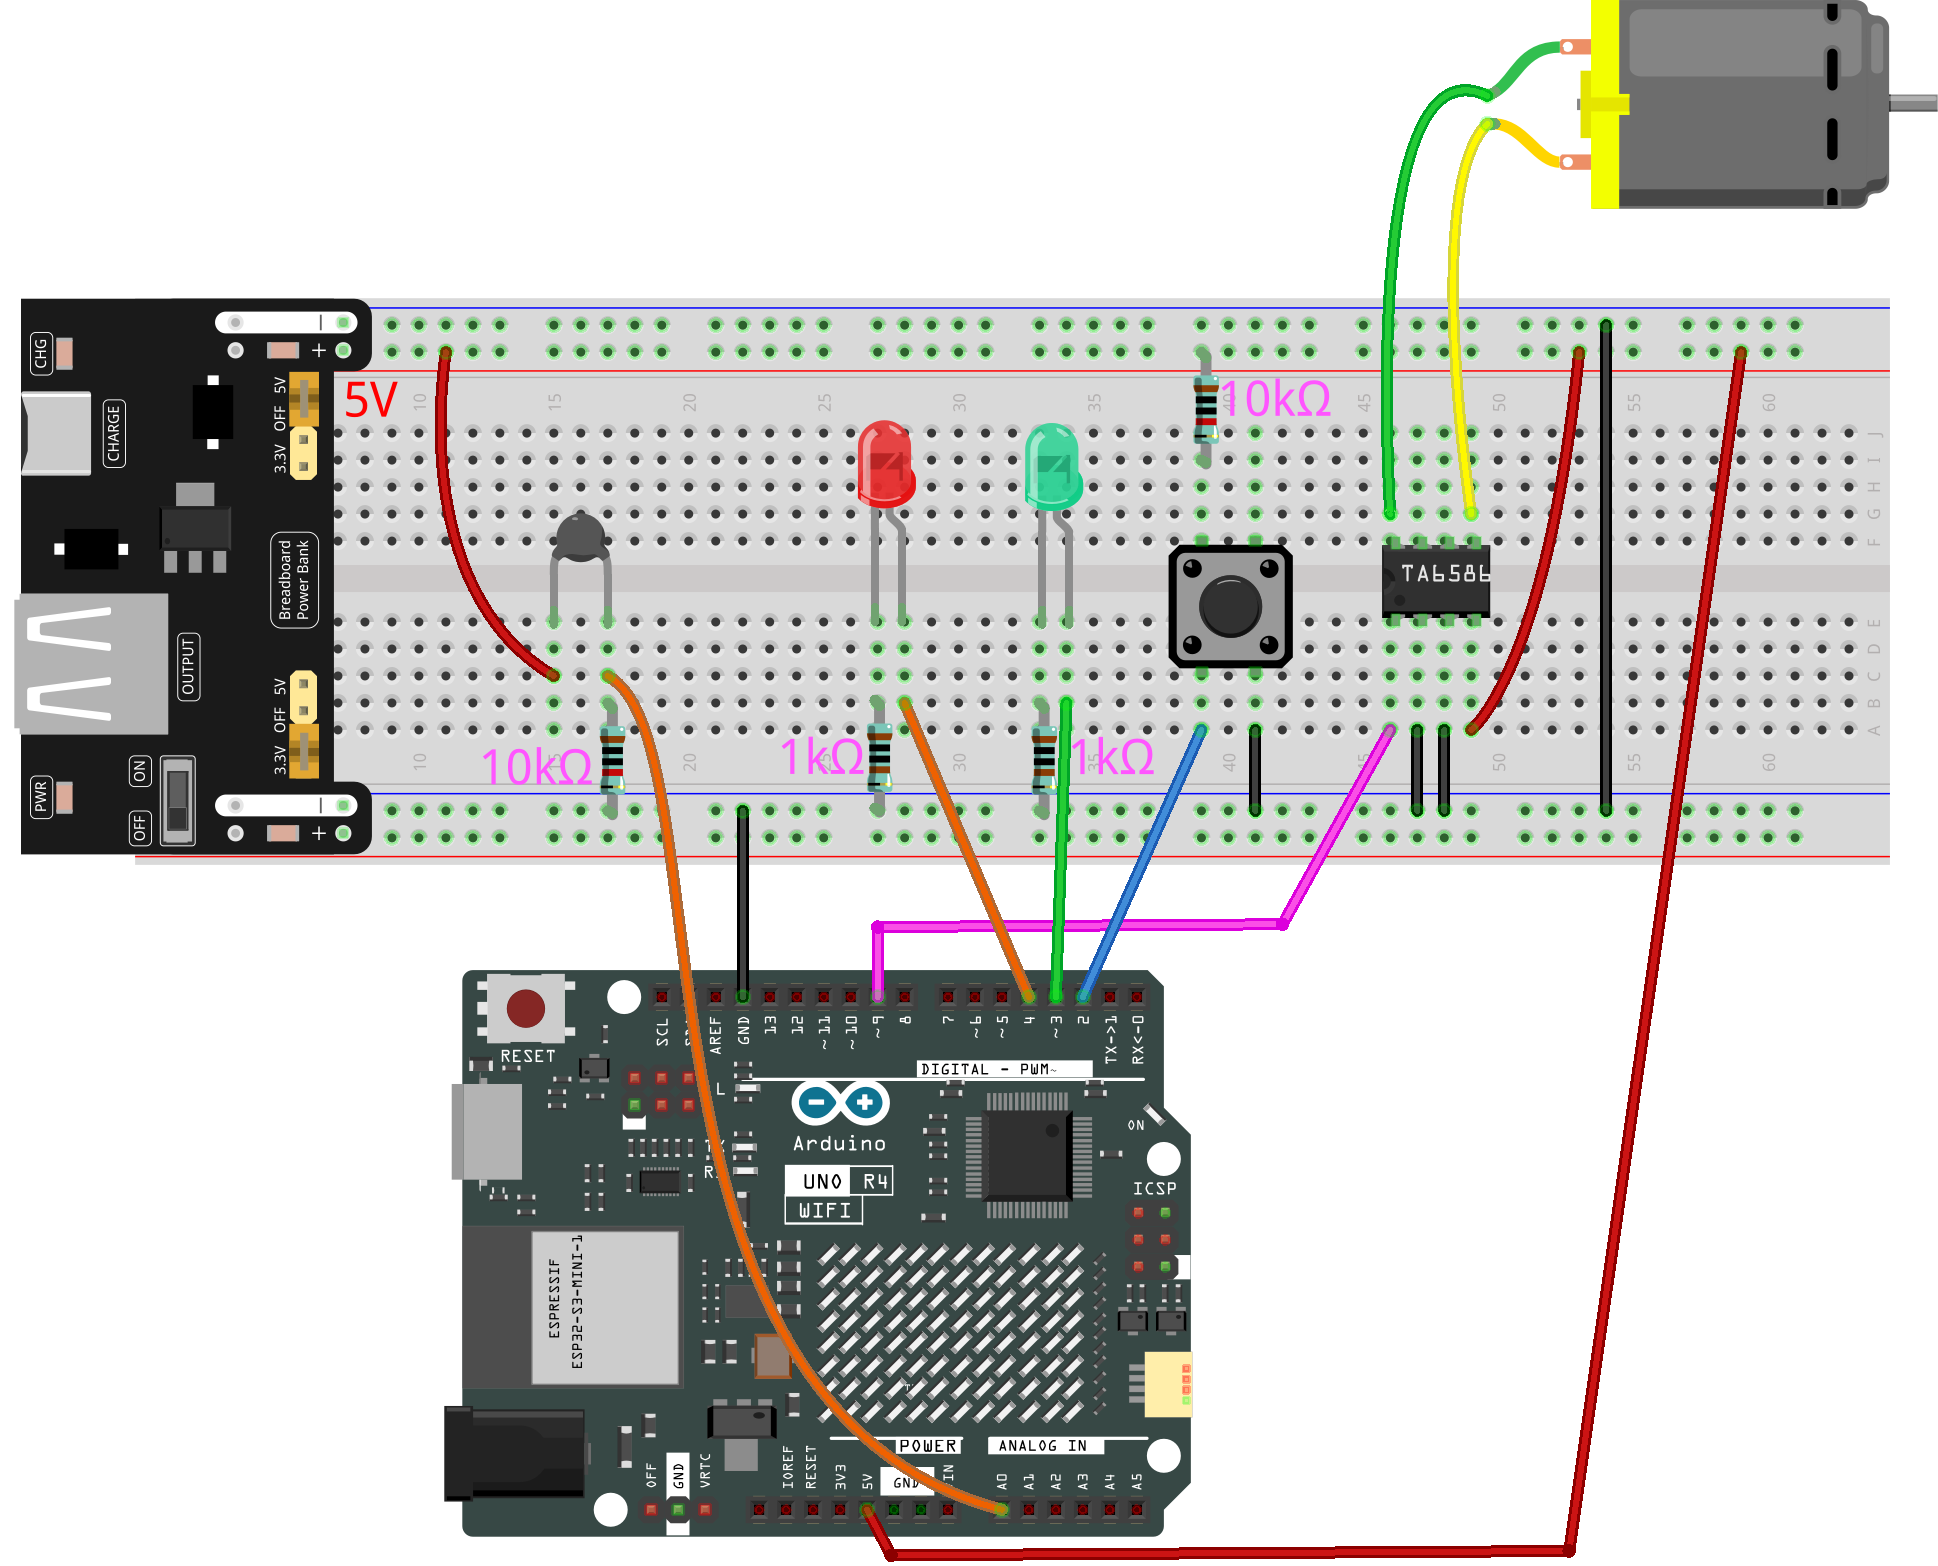
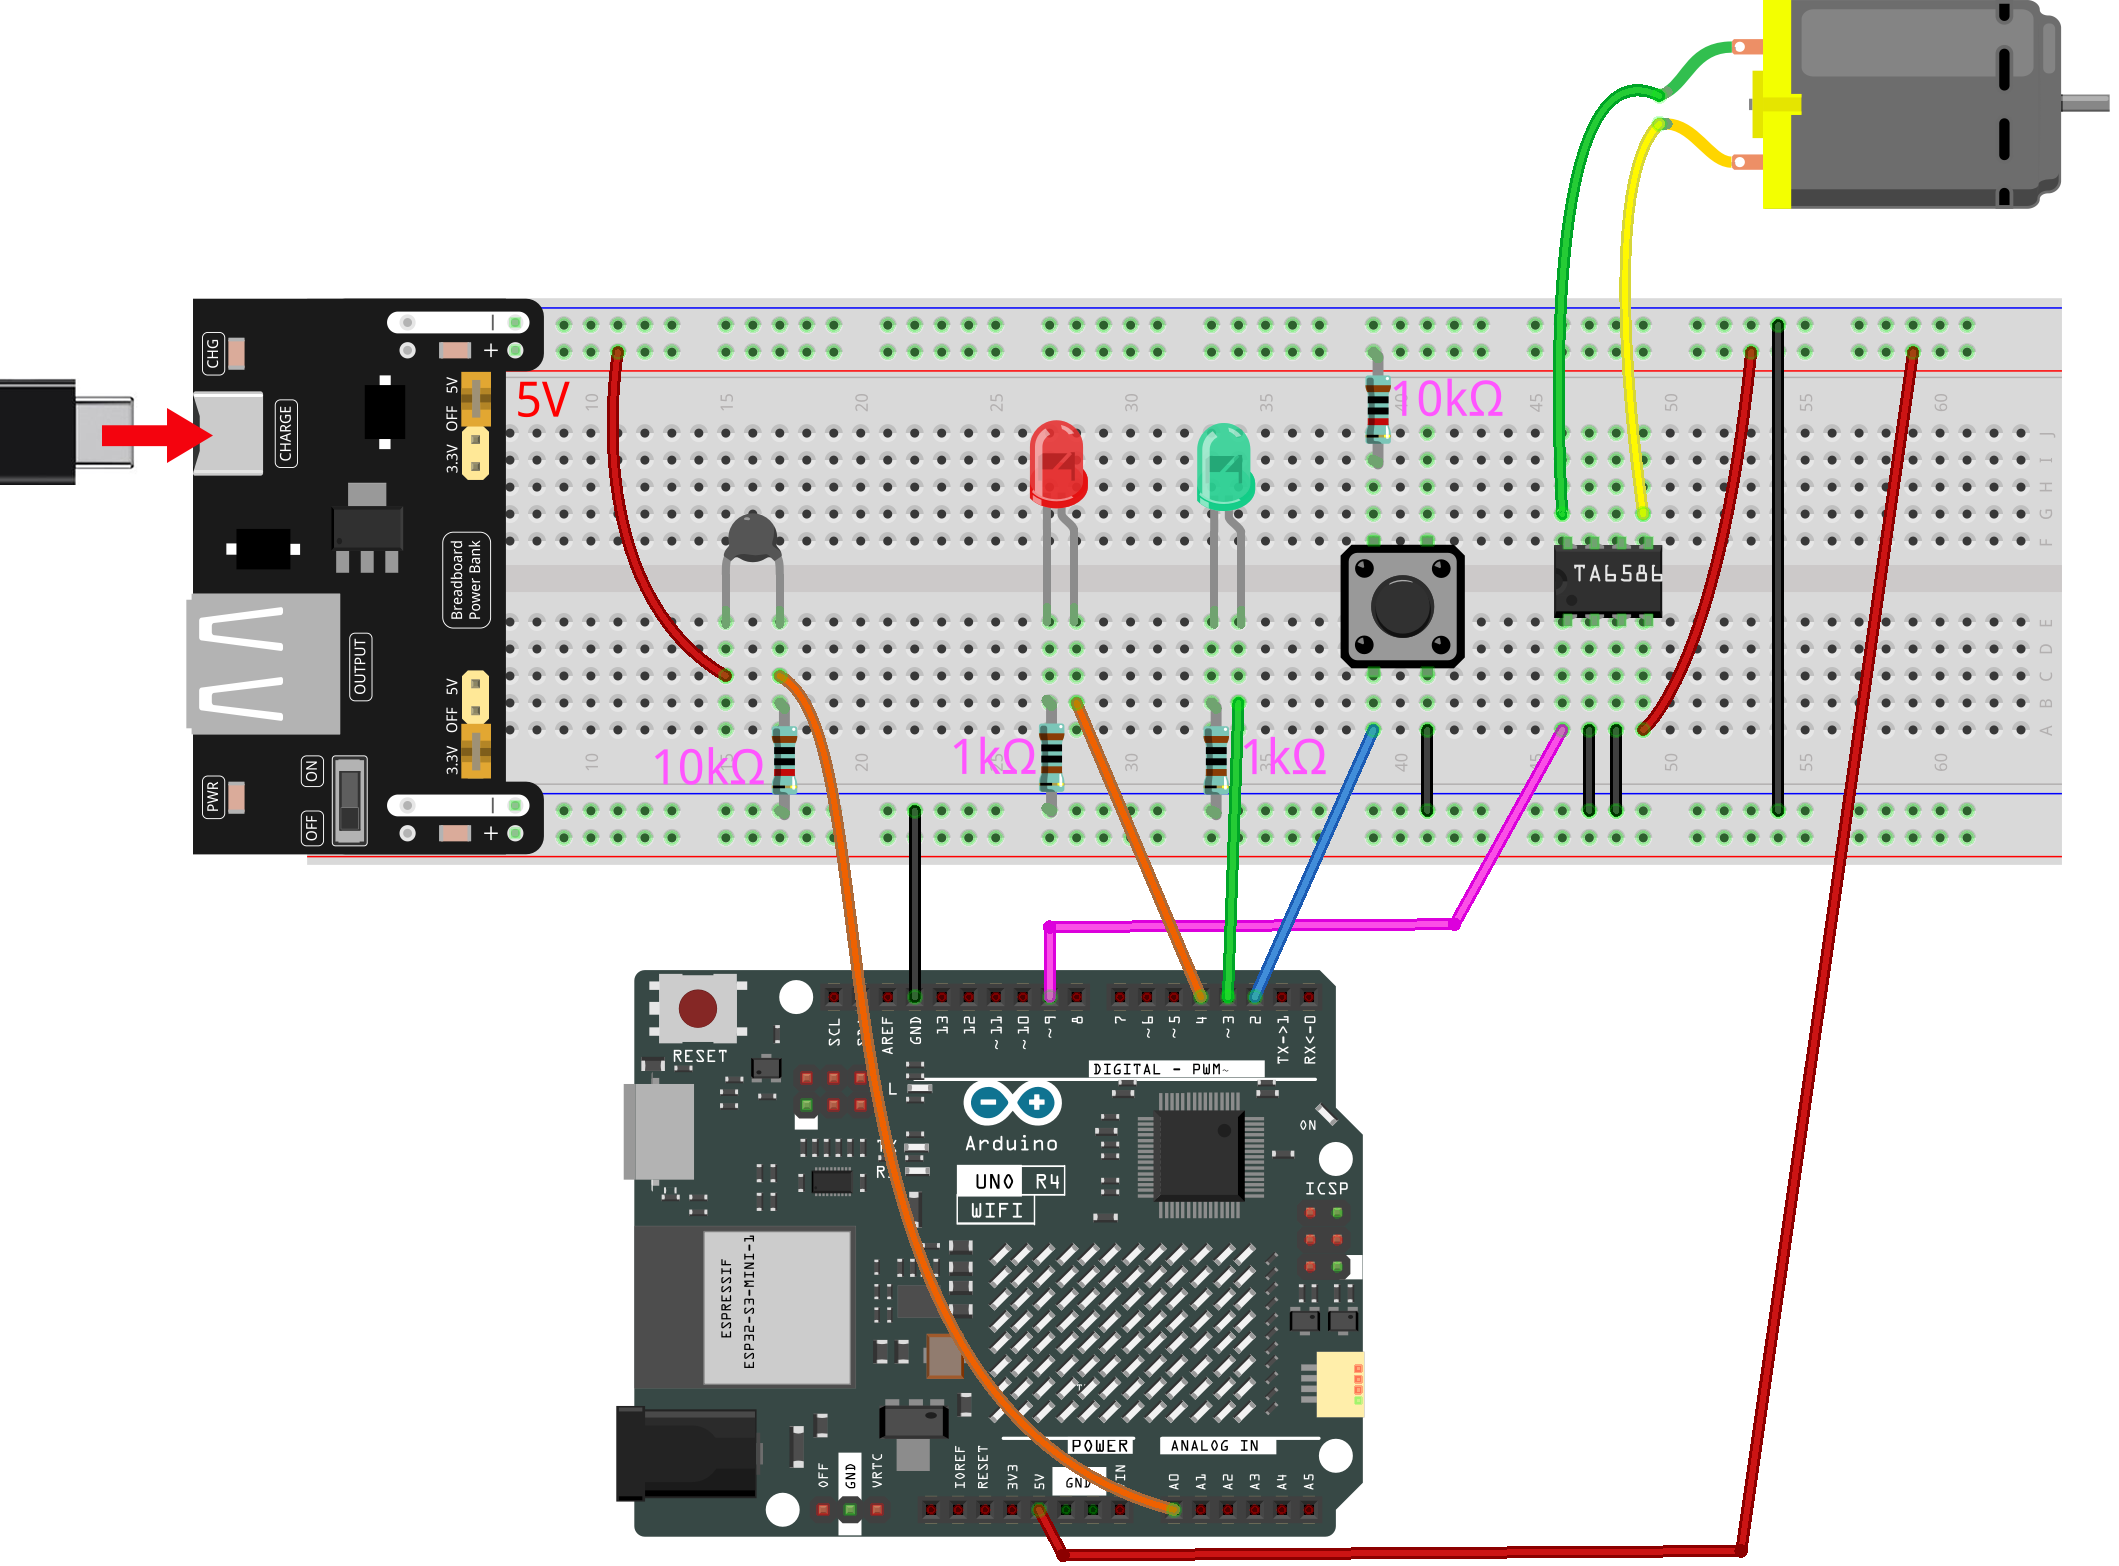
change a note

Changed region(s): [[0.0, 0.0, 0.9288, 1.0], [0.9907, 0.0613, 1.0, 0.092]]

diff --git a/docs/source/basic_projects/24_basic_motor.rst b/docs/source/basic_projects/24_basic_motor.rst
@@ -50,8 +50,7 @@ You can also buy them separately from the links below.
         - PURCHASE LINK
 
     *   - :ref:`uno_r4_wifi`
-        - \-
-    *   - :ref:`cpn_breadboard`
+
         - |link_breadboard_buy|
     *   - :ref:`cpn_wires`
         - |link_wires_buy|
@@ -68,7 +67,7 @@ Wiring
 In this example, we use Power Supply Module to power the anode and cathode of breadboard.
 
 .. note::
-    To protect the :ref:`cpn_power`'s battery, please fully charge it before using it for the first time.
+    The motor requires more power during operation, so please keep the power module connected to a charging cable when in use.
 
 .. image:: img/24-motor_bb.png
     :align: center

diff --git a/docs/source/fun_projects/06_fun_smart_fan.rst b/docs/source/fun_projects/06_fun_smart_fan.rst
@@ -77,7 +77,7 @@ You can also buy them separately from the links below.
 **Wiring**
 
 .. note::
-    To protect the :ref:`cpn_power`'s battery, please fully charge it before using it for the first time.
+    The motor requires more power during operation, so please keep the power module connected to a charging cable when in use.
 
 .. image:: img/06_smart_fan_bb.png
     :width: 100%
